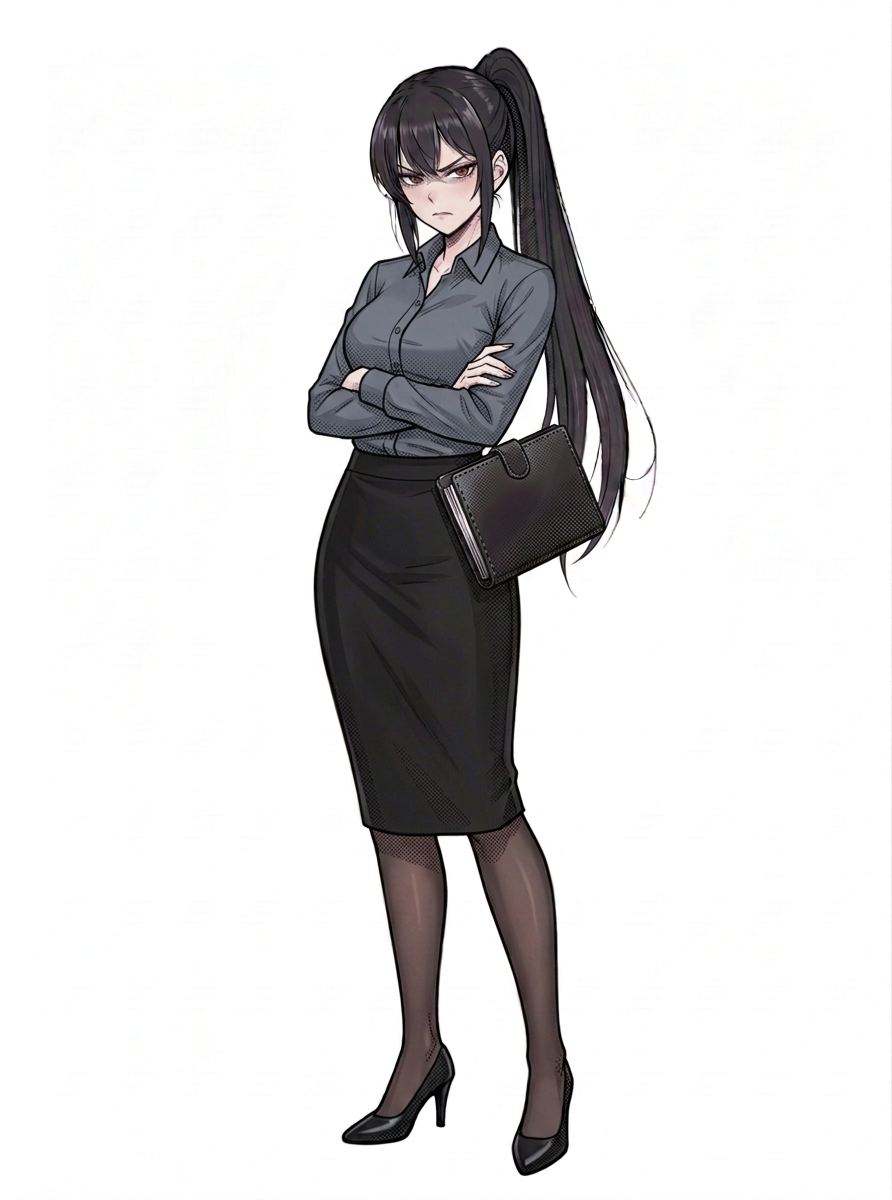
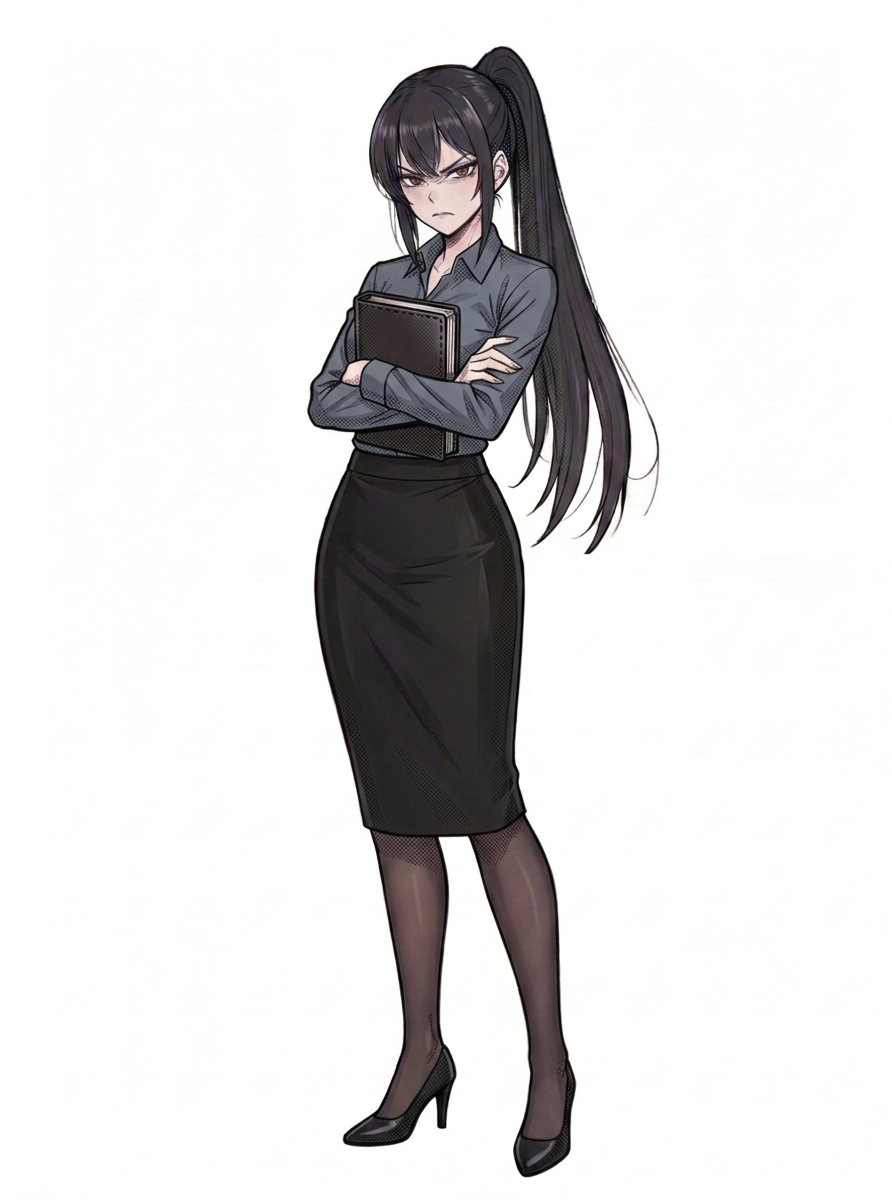
Fix valeria_human_angry folder held in crossed arms instead of floating at hip

diff --git a/index.html b/index.html
@@ -4,7 +4,7 @@
   <meta charset="UTF-8" />
   <meta name="viewport" content="width=device-width, initial-scale=1.0" />
   <title>Не смотри на небо</title>
-  <link rel="stylesheet" href="styles.css?v=20261031_10" />
+  <link rel="stylesheet" href="styles.css?v=20261031_11" />
 </head>
 <body>
   <div id="app">
@@ -260,13 +260,13 @@
   </div>
 
   <!-- SCRIPT CHAPTERS -->
-  <script src="script/prologue_1_morning.js?v=20261031_10"></script>
-  <script src="script/prologue_2_city.js?v=20261031_10"></script>
-  <script src="script/prologue_3_depot.js?v=20261031_10"></script>
-  <script src="script/prologue_4_crash.js?v=20261031_10"></script>
-  <script src="script/day1_1_mirael.js?v=20261031_10"></script>
-  <script src="script/day1_2_valeria.js?v=20261031_10"></script>
-  <script src="script/day1_3_evening.js?v=20261031_10"></script>
-  <script src="engine.js?v=20261031_10"></script>
+  <script src="script/prologue_1_morning.js?v=20261031_11"></script>
+  <script src="script/prologue_2_city.js?v=20261031_11"></script>
+  <script src="script/prologue_3_depot.js?v=20261031_11"></script>
+  <script src="script/prologue_4_crash.js?v=20261031_11"></script>
+  <script src="script/day1_1_mirael.js?v=20261031_11"></script>
+  <script src="script/day1_2_valeria.js?v=20261031_11"></script>
+  <script src="script/day1_3_evening.js?v=20261031_11"></script>
+  <script src="engine.js?v=20261031_11"></script>
 </body>
 </html>

diff --git a/engine.js b/engine.js
@@ -1,6 +1,6 @@
 // ДВИЖОК ВИЗУАЛЬНОЙ НОВЕЛЛЫ «НЕ СМОТРИ НА НЕБО» ($WAG ENTERTAINMENT)
 (function () {
-  const ASSET_VER = "20261031_10";
+  const ASSET_VER = "20261031_11";
 
   function withVer(url) {
     if (!url) return "";
